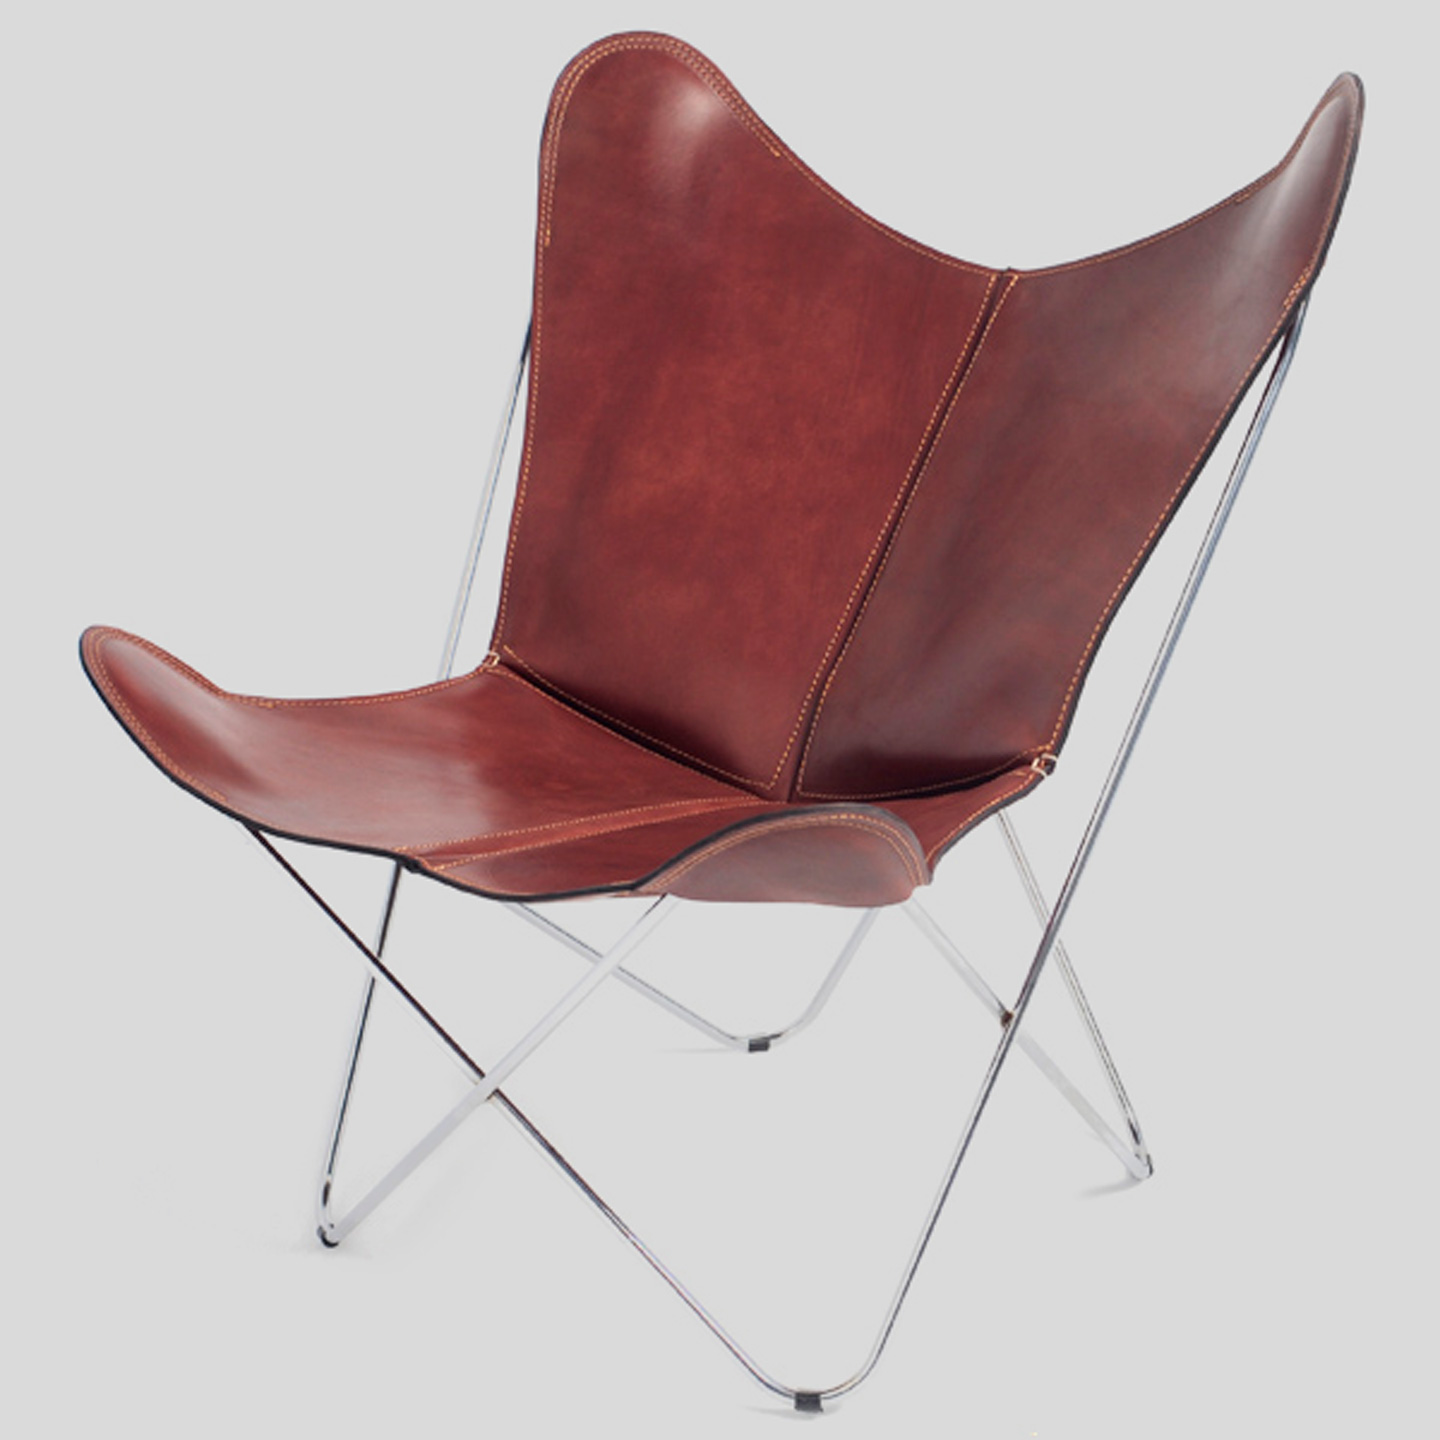
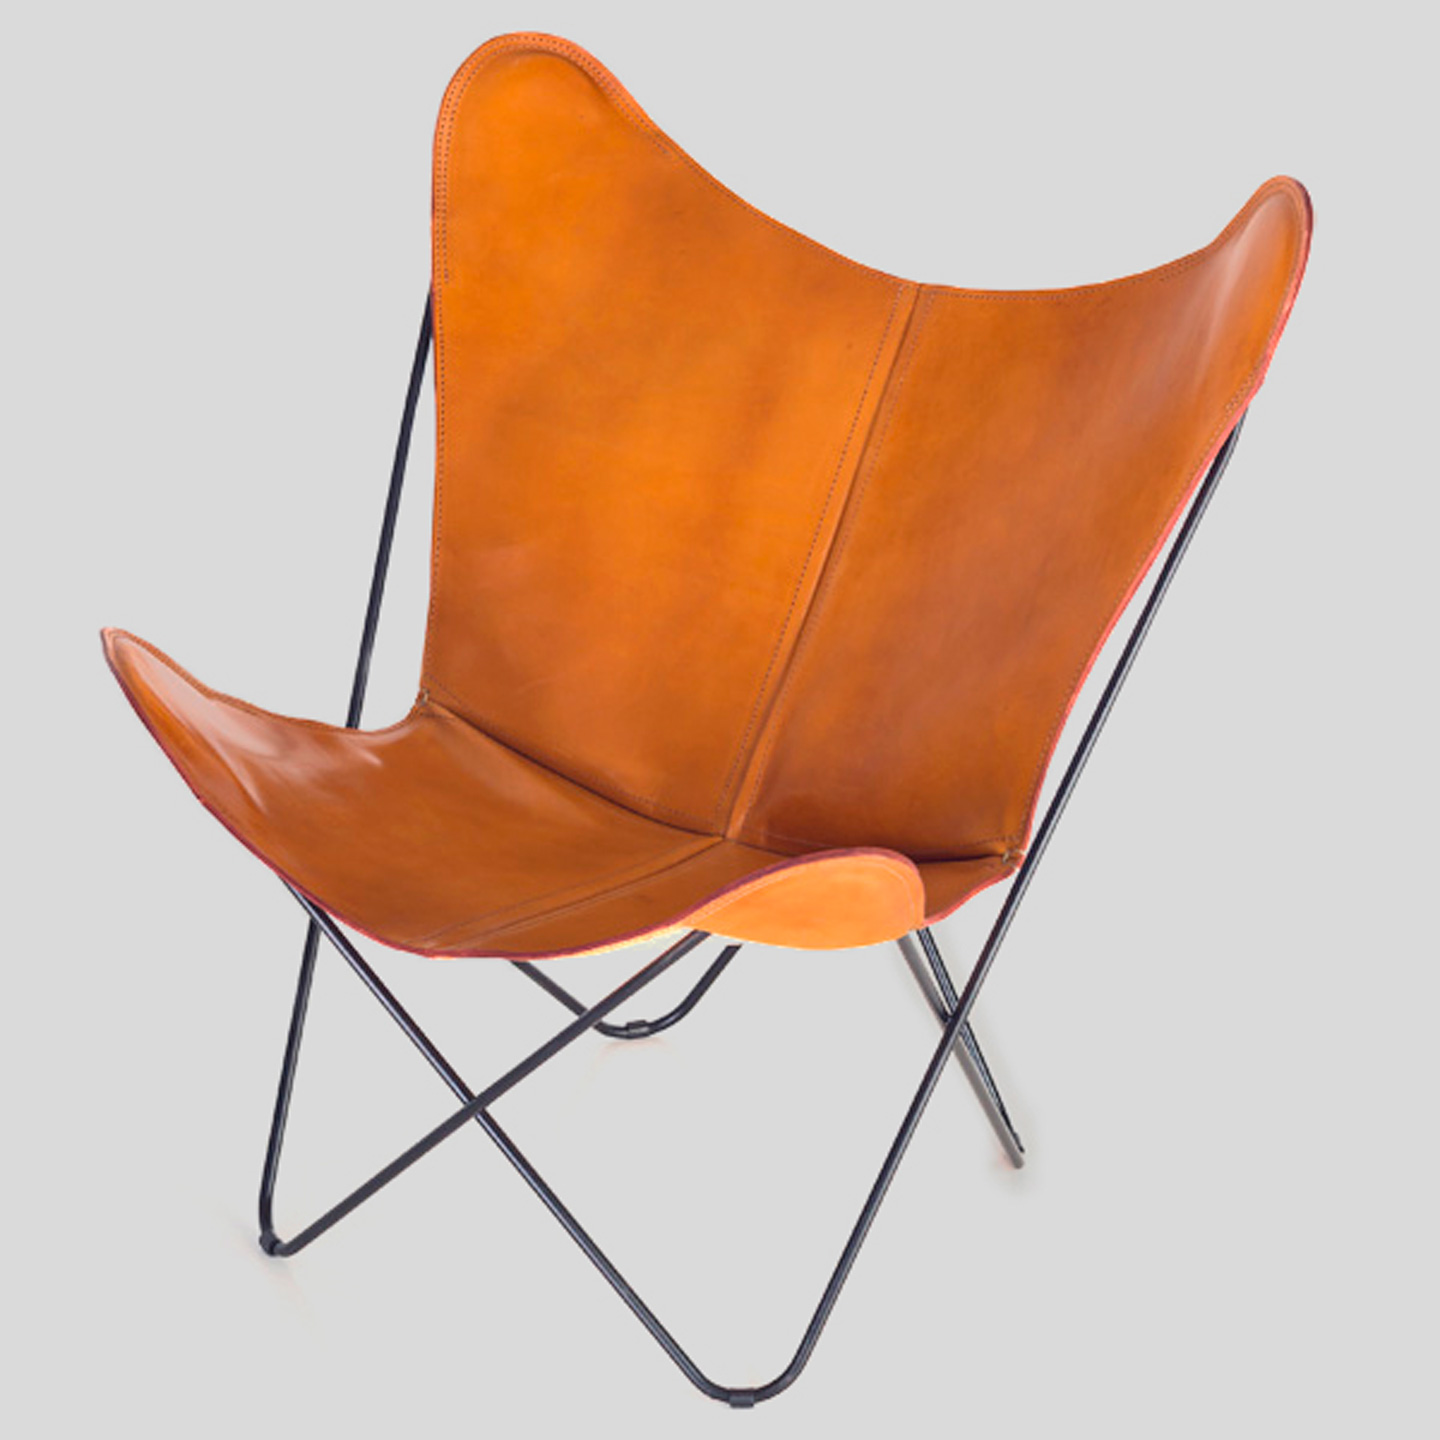
Fix colors

diff --git a/index.html b/index.html
@@ -1285,22 +1285,23 @@
           </div>
           <div class="color"><span class="circle-wrapper"><span class="circle"
                 style="background-color: #E47619;"></span></span>
-            <p class="label">Orange</p>
+            <p class="label">Light Brown</p>
           </div>
           <div class="color"><span class="circle-wrapper"><span class="circle"
                 style="background-color: #803534;"></span></span>
-            <p class="label">Bordeaux</p>
+            <p class="label">Dark Brown</p>
           </div>
           <div class="color"><span class="circle-wrapper"><span class="circle"
                 style="background-color: #E9E7E8;"></span></span>
             <p class="label">Cow</p>
           </div>
           <div class="color"><span class="circle-wrapper"><span class="circle"
-                style="background-color: #953023;"></span></span>
-            <p class="label">Red</p>
+                style="background-color: #7F243A;"></span></span>
+            <p class="label">Bordeaux</p>
           </div>
         </div>
         <div class="cta" data-anchor="contact">Get yours</div>
+        <!-- <a class="cta">Specs ↓</a> -->
       </div>
     </div>
     <div class="split-columns">
@@ -1314,14 +1315,15 @@
           <div class="color-selector">
             <div class="color selected"><span class="circle-wrapper"><span class="circle"
                   style="background-color: #5A4748;"></span></span>
-              <p class="label">Brown</p>
+              <p class="label">Dark Brown</p>
             </div>
             <div class="color"><span class="circle-wrapper"><span class="circle"
                   style="background-color: #E47619;"></span></span>
-              <p class="label">Orange</p>
+              <p class="label">Light Brown</p>
             </div>
           </div>
           <div class="cta" data-anchor="contact">Get yours</div>
+          <!-- <a class="cta">Specs ↓</a> -->
       </div>
     </div>
   </div>

diff --git a/css/style.css b/css/style.css
@@ -272,10 +272,14 @@ nav span {
     font-size: 10.5px;
     line-height: 10.5px;
     letter-spacing: -0.005625em;
+    width: 50px;
+    white-space: nowrap;
 }
 
 #products .color.selected .label {
-    display: block;
+    display: flex;
+    justify-content: center;
+
 }
 
 #products .cta {
@@ -291,6 +295,7 @@ nav span {
     border: 2px solid;
     border-radius: 28px;
     border-color: #403C01;
+    margin-right: 5px;
 }
 
 
